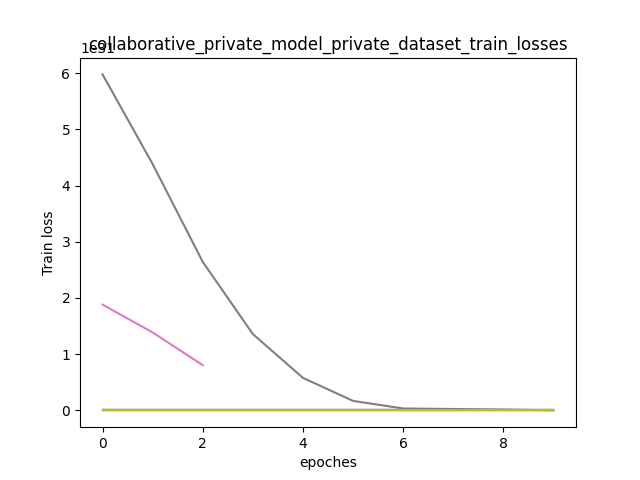
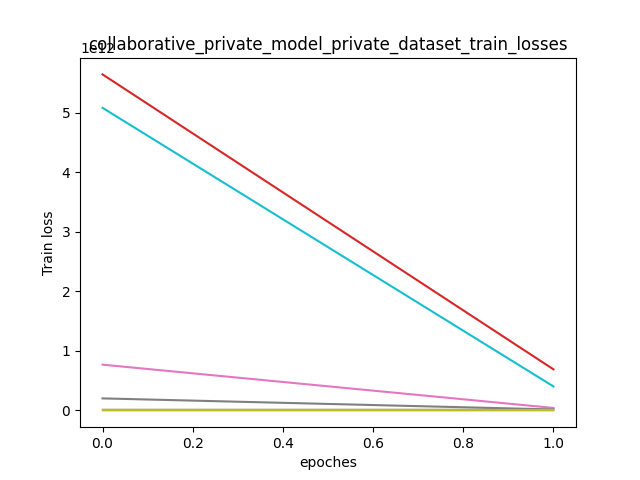
update

diff --git a/option.py b/option.py
@@ -28,13 +28,13 @@ def args_parser():
     # Collaborative_private_model_femnist_balanced
     parser.add_argument('--new_collaborative_training',type=bool,default=False,help='whether train model from initial condition')
     parser.add_argument('--Collaborativeurl',type=str,default='Src\CollaborativeModel',help='collaborative model location')
-    parser.add_argument('--collaborative_epoch',type=int,default=6,help='collaborative_epoch for train on public mnist')
+    parser.add_argument('--collaborative_epoch',type=int,default=1,help='collaborative_epoch for train on public mnist')
 
     # Collaborative_step
     parser.add_argument('--Communicationepoch',type=int,default=10,help='Collaobrative epoch in Step3')
 
     # collaborative_private_model_femnist_balanced
-    parser.add_argument('--Communication_private_epoch',type=int,default=10 ,help='Local private training during colaboratiive time')
+    parser.add_argument('--Communication_private_epoch',type=int,default=2 ,help='Local private training during colaboratiive time')
 
     args = parser.parse_args()
 

diff --git a/collaborative_private_model_femnist_balanced.py b/collaborative_private_model_femnist_balanced.py
@@ -60,7 +60,7 @@ def collaborative_private_model_femnist_train(args):
         elif args.optimizer == 'adam':
             optimizer = torch.optim.Adam(model.parameters(), lr=args.lr,
                                          weight_decay=1e-4)
-        trainloader = DataLoader(DatasetSplit(train_dataset, list(user_groups[n])), batch_size=32, shuffle=True)
+        trainloader = DataLoader(DatasetSplit(train_dataset, list(user_groups[n])), batch_size=5, shuffle=True)
         criterion = nn.NLLLoss().to(device)
         train_epoch_losses = []
         for epoch in range(args.Communication_private_epoch):
